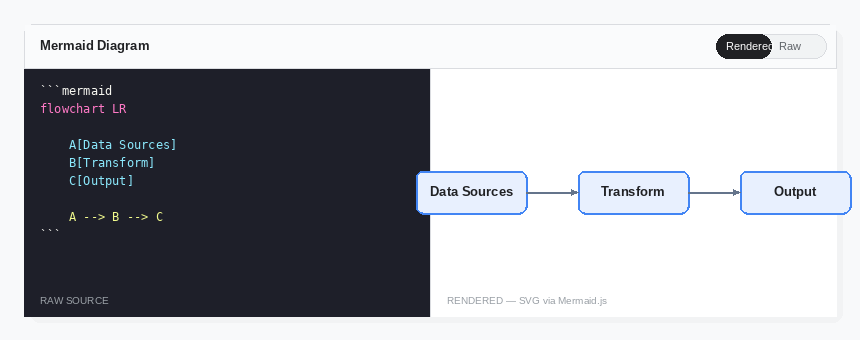
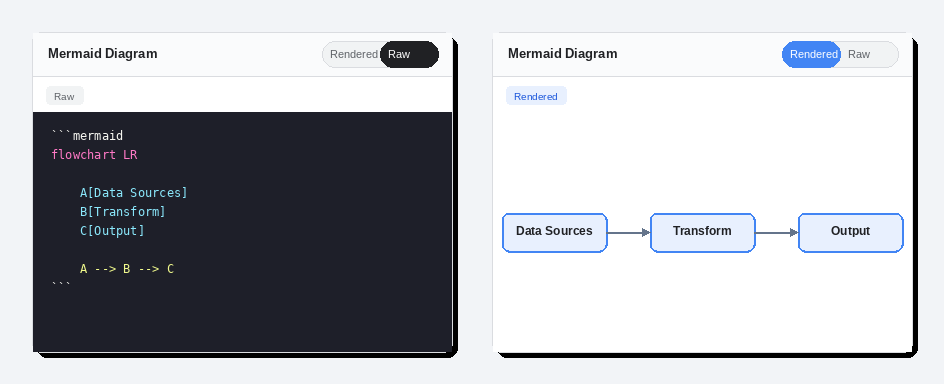
samples: redesign renderer preview as two side-by-side cards (raw + rendered)
Rewrites generate_renderer_preview.py to produce two separate UI component
cards per PNG — left card in Raw state (dark pill active), right card in
Rendered state (blue pill active) — with a gap between them on a shared
canvas. Updates 01-mermaid.png to match the new layout.

Claude-Session: https://claude.ai/code/session_01CYjqpWt1v2JhCDuDBEJCSM

diff --git a/samples/generate_renderer_preview.py b/samples/generate_renderer_preview.py
@@ -1,208 +1,232 @@
 """
-Generates side-by-side raw vs rendered preview PNGs for each AI Chat Platform
-content renderer type. Run: python3 generate_renderer_preview.py
+Generates two-card raw vs rendered preview PNGs for each AI Chat Platform
+content renderer type. Each PNG shows two separate UI component cards side
+by side — the left card in Raw state, the right card in Rendered state.
+Run: python3 generate_renderer_preview.py
 """
 
 from PIL import Image, ImageDraw, ImageFont
-import os, math
+import os
 
 # ── Paths ──────────────────────────────────────────────────────────────────
 OUT_DIR   = os.path.join(os.path.dirname(__file__), "renderer-previews")
 SANS      = "/usr/share/fonts/truetype/liberation/LiberationSans-Regular.ttf"
 SANS_BOLD = "/usr/share/fonts/truetype/liberation/LiberationSans-Bold.ttf"
 MONO      = "/usr/share/fonts/truetype/dejavu/DejaVuSansMono.ttf"
-MONO_BOLD = "/usr/share/fonts/truetype/dejavu/DejaVuSansMono-Bold.ttf"
 os.makedirs(OUT_DIR, exist_ok=True)
 
 # ── Palette ────────────────────────────────────────────────────────────────
-WHITE        = (255, 255, 255)
-CANVAS_BG    = (248, 249, 250)
-CARD_BG      = (255, 255, 255)
-BORDER       = (218, 220, 224)
-DIVIDER      = (218, 220, 224)
-HEADER_BG    = (250, 251, 252)
-TEXT_DARK    = ( 32,  33,  36)
-TEXT_MID     = ( 95,  99, 104)
-TEXT_LIGHT   = (154, 160, 166)
-CODE_BG      = ( 30,  31,  41)
-CODE_TEXT    = (248, 248, 242)
-CODE_PINK    = (255, 121, 198)
-CODE_YELLOW  = (241, 250, 140)
-CODE_GREEN   = ( 80, 250, 123)
-CODE_PURPLE  = (189, 147, 249)
-CODE_CYAN    = (139, 233, 253)
-CODE_ORANGE  = (255, 184, 108)
-NODE_FILL    = (232, 240, 254)
-NODE_BORDER  = ( 66, 133, 244)
-NODE_TEXT    = ( 32,  33,  36)
-ARROW        = (100, 116, 139)
-PILL_ACTIVE  = ( 32,  33,  36)
-PILL_IDLE    = (241, 243, 244)
-PILL_AT      = (255, 255, 255)
-PILL_IT      = ( 95,  99, 104)
-LABEL_RENDERED = ( 66, 133, 244)
+WHITE       = (255, 255, 255)
+CANVAS_BG   = (242, 244, 247)
+CARD_BG     = (255, 255, 255)
+BORDER      = (218, 220, 224)
+HEADER_BG   = (250, 251, 252)
+TEXT_DARK   = ( 32,  33,  36)
+TEXT_MID    = ( 95,  99, 104)
+TEXT_LIGHT  = (154, 160, 166)
+CODE_BG     = ( 30,  31,  41)
+CODE_TEXT   = (248, 248, 242)
+CODE_PINK   = (255, 121, 198)
+CODE_YELLOW = (241, 250, 140)
+CODE_CYAN   = (139, 233, 253)
+CODE_GREEN  = ( 80, 250, 123)
+CODE_PURPLE = (189, 147, 249)
+CODE_ORANGE = (255, 184, 108)
+NODE_FILL   = (232, 240, 254)
+NODE_BORDER = ( 66, 133, 244)
+ARROW_COL   = (100, 116, 139)
+# Pill — Raw active state
+PILL_RAW_ACTIVE   = ( 32,  33,  36)   # dark chip on right
+PILL_REND_ACTIVE  = ( 66, 133, 244)   # blue chip on left
+PILL_IDLE         = (241, 243, 244)
+PILL_BORDER       = (218, 220, 224)
+PILL_ON_TEXT      = (255, 255, 255)
+PILL_OFF_TEXT     = ( 95,  99, 104)
+LABEL_BG_RAW      = (241, 243, 244)
+LABEL_BG_REND     = (232, 240, 254)
+LABEL_TEXT_RAW    = ( 95,  99, 104)
+LABEL_TEXT_REND   = ( 26,  86, 219)
 
-# ── Font loader ─────────────────────────────────────────────────────────────
+# ── Fonts ──────────────────────────────────────────────────────────────────
 def fnt(path, size):
     try:
         return ImageFont.truetype(path, size)
     except:
         return ImageFont.load_default()
 
-# ── Drawing helpers ─────────────────────────────────────────────────────────
-def rounded_rect(draw, xy, radius, fill=None, outline=None, width=1):
+F_UI      = lambda s: fnt(SANS,      s)
+F_BOLD    = lambda s: fnt(SANS_BOLD, s)
+F_MONO    = lambda s: fnt(MONO,      s)
+
+# ── Drawing primitives ─────────────────────────────────────────────────────
+def rrect(draw, xy, r, fill=None, outline=None, lw=1):
     x0, y0, x1, y1 = xy
-    r = radius
     if fill:
         draw.rectangle([x0+r, y0, x1-r, y1], fill=fill)
         draw.rectangle([x0, y0+r, x1, y1-r], fill=fill)
-        draw.ellipse([x0, y0, x0+2*r, y0+2*r], fill=fill)
-        draw.ellipse([x1-2*r, y0, x1, y0+2*r], fill=fill)
-        draw.ellipse([x0, y1-2*r, x0+2*r, y1], fill=fill)
-        draw.ellipse([x1-2*r, y1-2*r, x1, y1], fill=fill)
+        for ex, ey in [(x0,y0),(x1-2*r,y0),(x0,y1-2*r),(x1-2*r,y1-2*r)]:
+            draw.ellipse([ex, ey, ex+2*r, ey+2*r], fill=fill)
     if outline:
-        draw.arc([x0, y0, x0+2*r, y0+2*r], 180, 270, fill=outline, width=width)
-        draw.arc([x1-2*r, y0, x1, y0+2*r], 270, 360, fill=outline, width=width)
-        draw.arc([x0, y1-2*r, x0+2*r, y1], 90, 180, fill=outline, width=width)
-        draw.arc([x1-2*r, y1-2*r, x1, y1], 0, 90, fill=outline, width=width)
-        draw.line([x0+r, y0, x1-r, y0], fill=outline, width=width)
-        draw.line([x0+r, y1, x1-r, y1], fill=outline, width=width)
-        draw.line([x0, y0+r, x0, y1-r], fill=outline, width=width)
-        draw.line([x1, y0+r, x1, y1-r], fill=outline, width=width)
+        draw.arc([x0,y0,x0+2*r,y0+2*r], 180, 270, fill=outline, width=lw)
+        draw.arc([x1-2*r,y0,x1,y0+2*r], 270, 360, fill=outline, width=lw)
+        draw.arc([x0,y1-2*r,x0+2*r,y1],  90, 180, fill=outline, width=lw)
+        draw.arc([x1-2*r,y1-2*r,x1,y1],   0,  90, fill=outline, width=lw)
+        draw.line([x0+r,y0,x1-r,y0], fill=outline, width=lw)
+        draw.line([x0+r,y1,x1-r,y1], fill=outline, width=lw)
+        draw.line([x0,y0+r,x0,y1-r], fill=outline, width=lw)
+        draw.line([x1,y0+r,x1,y1-r], fill=outline, width=lw)
 
-def draw_card(draw, img_w, img_h, title, label_rendered="Rendered", label_raw="Raw"):
-    """Draw the outer card chrome — header, divider, pill toggle. Returns content area."""
-    M = 24           # outer margin
-    CARD_R = 10
-    HDR_H = 44
-    # shadow
-    shadow = Image.new("RGBA", (img_w, img_h), (0,0,0,0))
-    sd = ImageDraw.Draw(shadow)
-    for i in range(6, 0, -1):
-        sd.rounded_rectangle([M+i, M+i, img_w-M+i, img_h-M+i],
-                              radius=CARD_R, fill=(0,0,0, 6))
-    img_base = Image.new("RGB", (img_w, img_h), CANVAS_BG)
-    img_base.paste(Image.alpha_composite(img_base.convert("RGBA"), shadow).convert("RGB"))
-    draw2 = ImageDraw.Draw(img_base)
+def text_w(draw, text, font):
+    bb = font.getbbox(text)
+    return bb[2] - bb[0]
 
-    # card body
-    rounded_rect(draw2, [M, M, img_w-M, img_h-M], CARD_R, fill=CARD_BG, outline=BORDER, width=1)
-    # header strip
-    draw2.rectangle([M+1, M+1, img_w-M-1, M+HDR_H], fill=HEADER_BG)
-    draw2.line([(M, M+HDR_H), (img_w-M, M+HDR_H)], fill=BORDER, width=1)
-
-    # title
-    tf = fnt(SANS_BOLD, 13)
-    draw2.text((M+16, M+14), title, font=tf, fill=TEXT_DARK)
-
-    # pill toggle — top right of header
-    pill_x = img_w - M - 120
-    pill_y = M + 10
-    pill_w = 110
-    pill_h = 24
-    pill_r = 12
-    # pill background
-    rounded_rect(draw2, [pill_x, pill_y, pill_x+pill_w, pill_y+pill_h], pill_r,
-                 fill=PILL_IDLE, outline=BORDER, width=1)
-    # active half (Rendered)
-    half_w = pill_w // 2
-    rounded_rect(draw2, [pill_x, pill_y, pill_x+half_w, pill_y+pill_h], pill_r,
-                 fill=PILL_ACTIVE)
-    # pill labels
-    pf = fnt(SANS, 11)
-    draw2.text((pill_x + 10, pill_y + 6), label_rendered, font=pf, fill=PILL_AT)
-    draw2.text((pill_x + half_w + 8, pill_y + 6), label_raw, font=pf, fill=PILL_IT)
-
-    # content area
-    content_y = M + HDR_H + 1
-    return img_base, draw2, M, content_y, img_w - M, img_h - M
-
-def draw_vertical_divider(draw, x, y0, y1):
-    draw.line([(x, y0), (x, y1)], fill=DIVIDER, width=1)
-
-def draw_section_label(draw, x, y, text, color=TEXT_LIGHT):
-    f = fnt(SANS, 10)
-    draw.text((x, y), text, font=f, fill=color)
-
-def draw_code_panel(draw, x0, y0, x1, y1, lines):
-    """Dark code panel with coloured token lines."""
-    draw.rectangle([x0, y0, x1, y1], fill=CODE_BG)
-    lf = fnt(MONO, 12)
-    lh = 18
-    pad_x, pad_y = 16, 14
-    for i, (text, color) in enumerate(lines):
-        draw.text((x0 + pad_x, y0 + pad_y + i * lh), text, font=lf, fill=color)
-
-def arrow_right(draw, x0, y, x1, color=ARROW, head=7):
-    draw.line([(x0, y), (x1 - head, y)], fill=color, width=2)
+def arrow_h(draw, x0, y, x1, color=ARROW_COL, head=8):
+    if x1 <= x0: return
+    draw.line([(x0, y), (x1-head, y)], fill=color, width=2)
     draw.polygon([(x1-head, y-head//2), (x1, y), (x1-head, y+head//2)], fill=color)
 
-def draw_node(draw, cx, cy, w, h, label, r=6):
-    x0, y0 = cx - w//2, cy - h//2
-    rounded_rect(draw, [x0, y0, x0+w, y0+h], r, fill=NODE_FILL, outline=NODE_BORDER, width=2)
-    nf = fnt(SANS_BOLD, 13)
-    bbox = nf.getbbox(label)
-    tw = bbox[2] - bbox[0]
-    draw.text((cx - tw//2, cy - 8), label, font=nf, fill=NODE_TEXT)
+def arrow_v(draw, x, y0, y1, color=ARROW_COL, head=8):
+    if y1 <= y0: return
+    draw.line([(x, y0), (x, y1-head)], fill=color, width=2)
+    draw.polygon([(x-head//2, y1-head), (x, y1), (x+head//2, y1-head)], fill=color)
+
+def node(draw, cx, cy, w, h, label, r=6, fill=NODE_FILL, border=NODE_BORDER):
+    x0, y0 = cx-w//2, cy-h//2
+    rrect(draw, [x0,y0,x0+w,y0+h], r, fill=fill, outline=border, lw=2)
+    f = F_BOLD(12)
+    tw = text_w(draw, label, f)
+    draw.text((cx-tw//2, cy-8), label, font=f, fill=TEXT_DARK)
+
+def diamond(draw, cx, cy, w, h, label):
+    pts = [(cx, cy-h//2), (cx+w//2, cy), (cx, cy+h//2), (cx-w//2, cy)]
+    draw.polygon(pts, fill=NODE_FILL, outline=NODE_BORDER)
+    f = F_BOLD(11)
+    tw = text_w(draw, label, f)
+    draw.text((cx-tw//2, cy-7), label, font=f, fill=TEXT_DARK)
+
+# ── Card chrome ─────────────────────────────────────────────────────────────
+CARD_R  = 10
+HDR_H   = 44
+PILL_W  = 116
+PILL_H  = 26
+
+def draw_single_card(img, x0, y0, w, h, title, active_side):
+    """
+    Draw one card at (x0,y0) with size (w,h).
+    active_side: 'rendered' | 'raw'
+    Returns (draw, content_x0, content_y0, content_x1, content_y1)
+    """
+    draw = ImageDraw.Draw(img)
+    x1, y1 = x0+w, y0+h
+
+    # drop shadow
+    for i in range(5, 0, -1):
+        rrect(draw, [x0+i, y0+i, x1+i, y1+i], CARD_R, fill=(0,0,0, 8))
+
+    # card body
+    rrect(draw, [x0,y0,x1,y1], CARD_R, fill=CARD_BG, outline=BORDER, lw=1)
+
+    # header strip
+    draw.rectangle([x0+1, y0+1, x1-1, y0+HDR_H], fill=HEADER_BG)
+    draw.line([(x0, y0+HDR_H), (x1, y0+HDR_H)], fill=BORDER, width=1)
+
+    # title
+    tf = F_BOLD(13)
+    draw.text((x0+16, y0+14), title, font=tf, fill=TEXT_DARK)
+
+    # pill toggle
+    px = x1 - PILL_W - 14
+    py = y0 + (HDR_H - PILL_H) // 2
+    hw = PILL_W // 2
+
+    # pill background
+    rrect(draw, [px, py, px+PILL_W, py+PILL_H], PILL_H//2,
+          fill=PILL_IDLE, outline=PILL_BORDER, lw=1)
+
+    pf = F_UI(11)
+    if active_side == 'rendered':
+        # blue left chip active
+        rrect(draw, [px, py, px+hw, py+PILL_H], PILL_H//2, fill=PILL_REND_ACTIVE)
+        draw.text((px+8,  py+7), "Rendered", font=pf, fill=PILL_ON_TEXT)
+        draw.text((px+hw+8, py+7), "Raw",    font=pf, fill=PILL_OFF_TEXT)
+    else:
+        # dark right chip active
+        rrect(draw, [px+hw, py, px+PILL_W, py+PILL_H], PILL_H//2, fill=PILL_RAW_ACTIVE)
+        draw.text((px+8,  py+7), "Rendered", font=pf, fill=PILL_OFF_TEXT)
+        draw.text((px+hw+8, py+7), "Raw",    font=pf, fill=PILL_ON_TEXT)
+
+    # state label badge below header
+    label_text  = "Rendered" if active_side == 'rendered' else "Raw"
+    label_fill  = LABEL_BG_REND  if active_side == 'rendered' else LABEL_BG_RAW
+    label_color = LABEL_TEXT_REND if active_side == 'rendered' else LABEL_TEXT_RAW
+    lf = F_UI(10)
+    lw = text_w(draw, label_text, lf) + 16
+    lx = x0 + 14
+    ly = y0 + HDR_H + 10
+    rrect(draw, [lx, ly, lx+lw, ly+18], 4, fill=label_fill)
+    draw.text((lx+8, ly+4), label_text, font=lf, fill=label_color)
+
+    cy0 = y0 + HDR_H + 36   # content starts below badge
+    return draw, x0, cy0, x1, y1
+
+def make_frame(card_w, card_h, gap=40, margin=32):
+    """Canvas holding two cards side by side."""
+    W = margin*2 + card_w*2 + gap
+    H = margin*2 + card_h
+    img = Image.new("RGB", (W, H), CANVAS_BG)
+    return img, W, H, margin, margin
+
+def code_panel(draw, x0, y0, x1, y1, lines, corner_r=0):
+    """Dark syntax-coloured code area."""
+    draw.rectangle([x0, y0, x1, y1], fill=CODE_BG)
+    lf = F_MONO(12)
+    lh = 19
+    px, py = 18, 16
+    for i, (txt, col) in enumerate(lines):
+        draw.text((x0+px, y0+py+i*lh), txt, font=lf, fill=col)
 
 # ═══════════════════════════════════════════════════════════════════════════
-#  MERMAID
+#  01 — MERMAID
 # ═══════════════════════════════════════════════════════════════════════════
 def make_mermaid():
-    W, H = 860, 340
-    img = Image.new("RGB", (W, H), CANVAS_BG)
-    draw = ImageDraw.Draw(img)
+    CW, CH = 420, 320
+    img, W, H, mx, my = make_frame(CW, CH)
 
-    img, draw, cx0, cy0, cx1, cy1 = draw_card(draw, W, H, "Mermaid Diagram")
-
-    mid_x = (cx0 + cx1) // 2
-
-    # ── Left: raw code panel ──────────────────────────────────────────────
-    draw_code_panel(draw, cx0, cy0, mid_x, cy1, [
-        ("```mermaid",                      CODE_TEXT),
-        ("flowchart LR",                    CODE_PINK),
-        ("",                                CODE_TEXT),
-        ("    A[Data Sources]",             CODE_CYAN),
-        ("    B[Transform]",                CODE_CYAN),
-        ("    C[Output]",                   CODE_CYAN),
-        ("",                                CODE_TEXT),
-        ("    A --> B --> C",               CODE_YELLOW),
-        ("```",                             CODE_TEXT),
+    # ── Raw card ──────────────────────────────────────────────────────────
+    d, x0, cy0, x1, cy1 = draw_single_card(img, mx, my, CW, CH, "Mermaid Diagram", "raw")
+    code_panel(d, x0+1, cy0, x1-1, cy1-1, [
+        ("```mermaid",            CODE_TEXT),
+        ("flowchart LR",          CODE_PINK),
+        ("",                      CODE_TEXT),
+        ("    A[Data Sources]",   CODE_CYAN),
+        ("    B[Transform]",      CODE_CYAN),
+        ("    C[Output]",         CODE_CYAN),
+        ("",                      CODE_TEXT),
+        ("    A --> B --> C",     CODE_YELLOW),
+        ("```",                   CODE_TEXT),
     ])
-    draw_section_label(draw, cx0 + 16, cy1 - 22, "RAW SOURCE", TEXT_LIGHT)
 
-    # ── Divider ───────────────────────────────────────────────────────────
-    draw_vertical_divider(draw, mid_x, cy0, cy1)
+    # ── Rendered card ─────────────────────────────────────────────────────
+    rx = mx + CW + 40
+    d2, rx0, rcy0, rx1, rcy1 = draw_single_card(img, rx, my, CW, CH, "Mermaid Diagram", "rendered")
+    d2.rectangle([rx0+1, rcy0, rx1-1, rcy1-1], fill=WHITE)
 
-    # ── Right: rendered flowchart ─────────────────────────────────────────
-    rx0, ry0, rx1, ry1 = mid_x + 1, cy0, cx1, cy1
-    draw.rectangle([rx0, ry0, rx1, ry1], fill=WHITE)
-
-    panel_cx = (rx0 + rx1) // 2
-    panel_cy = (ry0 + ry1) // 2
-    node_w, node_h = 110, 42
-    gap = 52
-
-    n1x = panel_cx - node_w - gap
-    n2x = panel_cx
-    n3x = panel_cx + node_w + gap
-
-    draw_node(draw, n1x, panel_cy, node_w, node_h, "Data Sources")
-    draw_node(draw, n2x, panel_cy, node_w, node_h, "Transform")
-    draw_node(draw, n3x, panel_cy, node_w, node_h, "Output")
-
-    arrow_right(draw, n1x + node_w//2, panel_cy, n2x - node_w//2)
-    arrow_right(draw, n2x + node_w//2, panel_cy, n3x - node_w//2)
-
-    draw_section_label(draw, rx0 + 16, cy1 - 22, "RENDERED — SVG via Mermaid.js", TEXT_LIGHT)
+    pcx = (rx0 + rx1) // 2
+    pcy = (rcy0 + rcy1) // 2
+    nw, nh, gap = 104, 38, 44
+    n1x = pcx - nw - gap
+    n2x = pcx
+    n3x = pcx + nw + gap
+    for nx, lbl in [(n1x,"Data Sources"),(n2x,"Transform"),(n3x,"Output")]:
+        node(d2, nx, pcy, nw, nh, lbl)
+    arrow_h(d2, n1x+nw//2, pcy, n2x-nw//2)
+    arrow_h(d2, n2x+nw//2, pcy, n3x-nw//2)
 
     return img
 
 # ── Run ────────────────────────────────────────────────────────────────────
 if __name__ == "__main__":
-    renders = {
-        "01-mermaid": make_mermaid,
-    }
+    renders = {"01-mermaid": make_mermaid}
     for name, fn in renders.items():
         path = os.path.join(OUT_DIR, f"{name}.png")
         fn().save(path)
